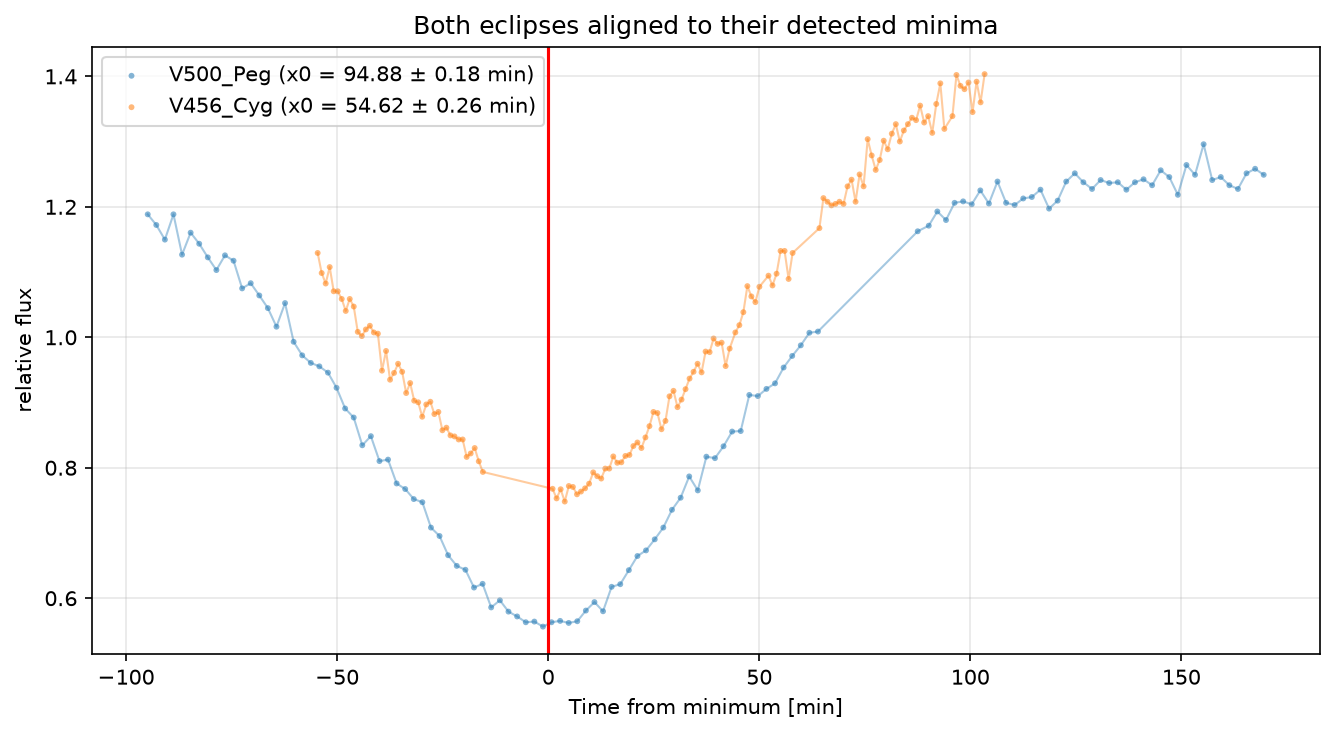
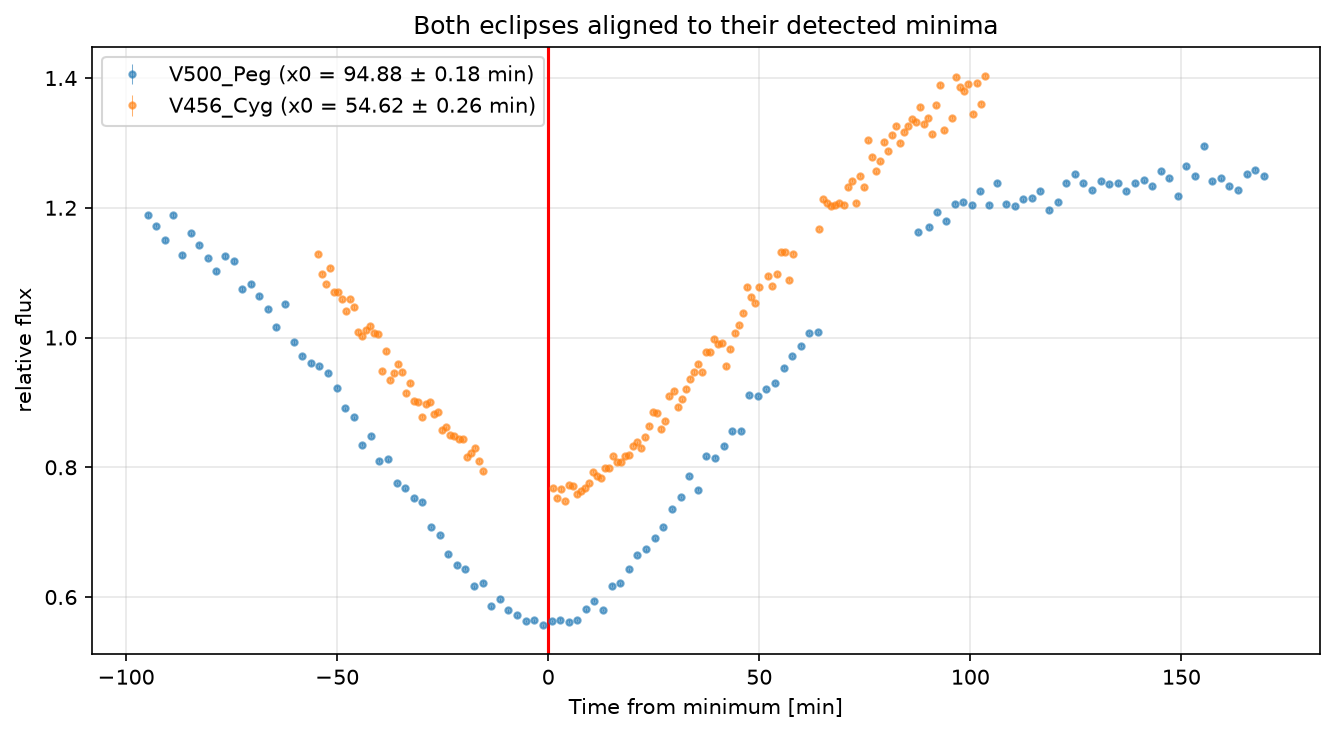
Comparison plot: scatter with propagated flux error bars
- load_aavso now also returns the flux error propagated from MAG_ERR
  (dy/dmag = -0.4 ln(10) y)
- comparison figure uses errorbar instead of points + connecting line

diff --git a/examples/plot_aavso.py b/examples/plot_aavso.py
@@ -48,16 +48,18 @@ def load_aavso(
     x_col: str = "DATE-OBS",
     y_col: str = "MAG",
     err_col: str = "MAG_ERR",
-) -> tuple[np.ndarray, np.ndarray, np.ndarray, np.datetime64, str]:
+) -> tuple[np.ndarray, np.ndarray, np.ndarray, np.datetime64, str, np.ndarray]:
     """Read an AAVSO extended-format file into arrays.
 
     Returns
     -------
-    tuple[np.ndarray, np.ndarray, np.ndarray, np.datetime64, str]
-        ``(x_minutes, y_flux, w, t0_utc, star_name)`` where ``x`` is the time
-        in minutes from the first observation, ``y`` the median-normalized
-        relative flux, ``w`` the weights ``1 / MAG_ERR``, ``t0_utc`` the first
-        timestamp and ``star_name`` the value of the ``NAME`` column.
+    tuple[np.ndarray, np.ndarray, np.ndarray, np.datetime64, str, np.ndarray]
+        ``(x_minutes, y_flux, w, t0_utc, star_name, y_err)`` where ``x`` is
+        the time in minutes from the first observation, ``y`` the
+        median-normalized relative flux, ``w`` the weights ``1 / MAG_ERR``,
+        ``t0_utc`` the first timestamp, ``star_name`` the value of the
+        ``NAME`` column and ``y_err`` the flux error propagated from
+        ``MAG_ERR`` via ``dy/dmag = -0.4 ln(10) y``.
     """
     lines = Path(path).read_text(encoding="utf-8").splitlines()
 
@@ -87,13 +89,15 @@ def load_aavso(
 
     err = np.array([float(r[err_col]) for r in rows])
     w = 1.0 / np.maximum(err, 1e-6)
+    # Flux uncertainty propagated from the magnitude uncertainty
+    y_err = 0.4 * np.log(10.0) * y * err
 
-    return x, y, w, t0, star_name
+    return x, y, w, t0, star_name, y_err
 
 
 def analyze_star(path: Path, out_png: Path) -> tuple[str, float, float]:
     """Run the full pipeline on one star and save the diagnostic figure."""
-    x, y, w, t0, star_name = load_aavso(path)
+    x, y, w, t0, star_name, _ = load_aavso(path)
     rng = np.random.default_rng(SEED)
 
     # High-level pipeline (returns the bootstrap samples for the histogram)
@@ -143,16 +147,17 @@ def analyze_star(path: Path, out_png: Path) -> tuple[str, float, float]:
 
 
 def comparison_figure(results: list[tuple[str, float, float]], out_png: Path) -> None:
-    """Overlay both light curves with minima aligned at zero."""
+    """Overlay both light curves, minima aligned at zero, as scatter with flux errors."""
     fig, ax = plt.subplots(figsize=(9, 5))
     for path, (name, x0, x0_std) in zip(STARS, results):
-        x, y, w, t0, _ = load_aavso(path)
+        x, y, w, t0, _, y_err = load_aavso(path)
         color = "C0" if "V500" in str(path) else "C1"
-        ax.scatter(x - x0, y, s=8, alpha=0.55, color=color, edgecolors="none",
-                   label=f"{name} (x0 = {x0:.2f} ± {x0_std:.2f} min)")
-        # Aligned median-filtered profile for a cleaner look
-        order = np.argsort(x - x0)
-        ax.plot(x[order] - x0, y[order], color=color, linewidth=1, alpha=0.4)
+        ax.errorbar(
+            x - x0, y, yerr=y_err,
+            fmt="o", ms=3, linewidth=0, alpha=0.6,
+            color=color, ecolor=color, elinewidth=0.5, capsize=0,
+            label=f"{name} (x0 = {x0:.2f} ± {x0_std:.2f} min)",
+        )
     ax.axvline(0, color="red", linewidth=1.5)
     ax.set_xlabel("Time from minimum [min]")
     ax.set_ylabel("relative flux")
